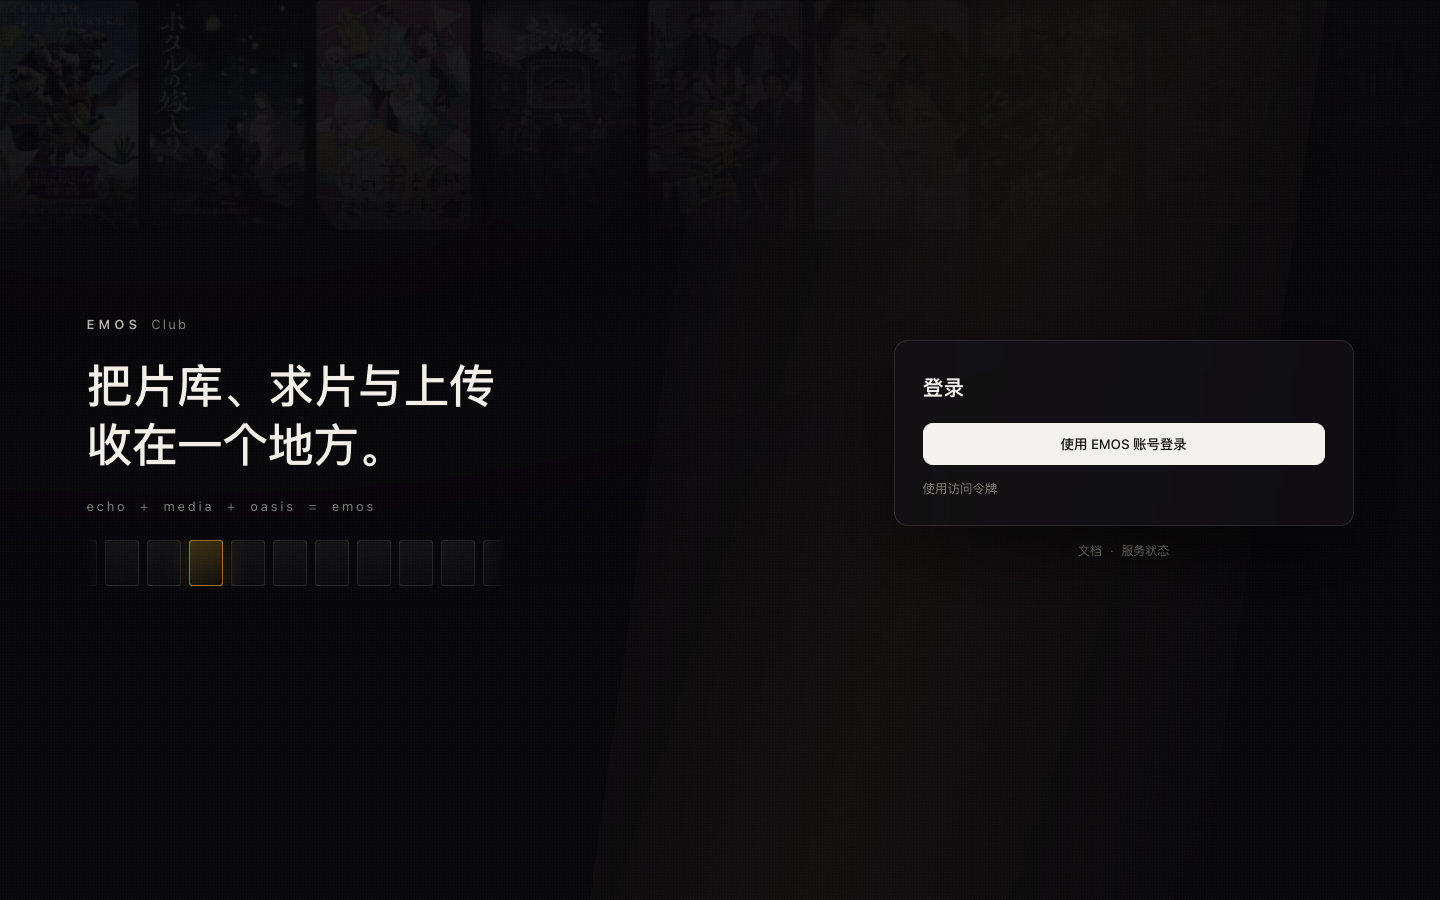
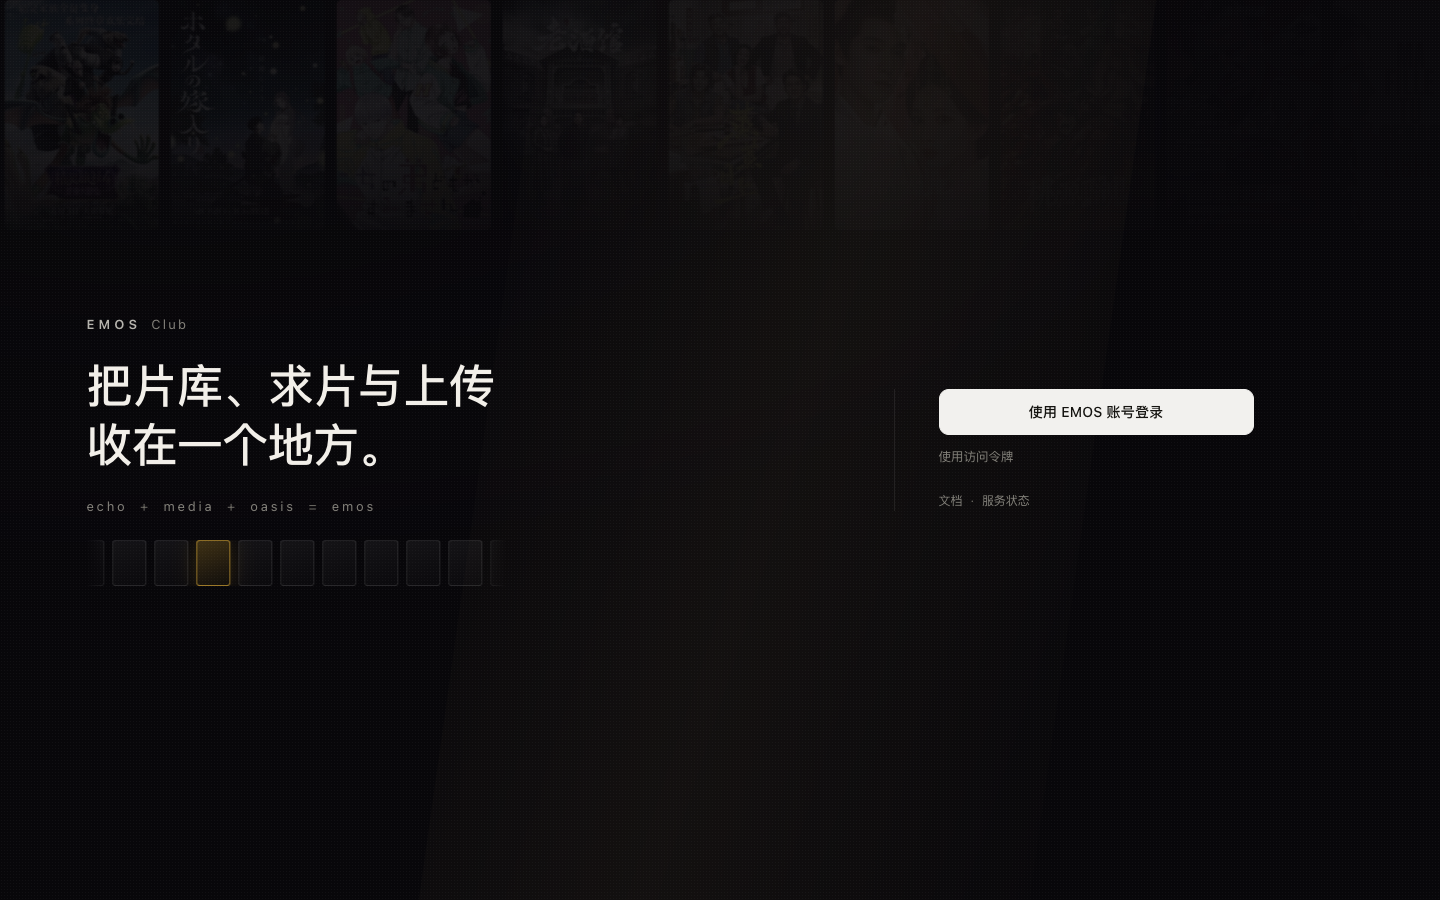
style(login): 右侧去掉矩形卡片，改开放栏
- 去掉边框、底色、模糊与投影：矩形盒子把左侧那块开放的海报墙切成两半
- 改用一条 1px 竖线分隔，右栏左对齐到同一条基线
- 移除「登录」小标题（左侧已建立上下文），右栏只剩按钮、次要入口、两个链接
- 按钮 46px 高、14px 字，与左侧标题的重量更接近

Changed region(s): [[0.625, 0.4044, 0.9375, 0.56], [0.125, 0.5911, 0.1562, 0.6533], [0.7812, 0.5911, 0.8125, 0.6222]]

diff --git a/src/styles/components.css b/src/styles/components.css
@@ -1322,17 +1322,19 @@ th.num .th-sort { flex-direction: row-reverse; }
 .login__line i { font-style: normal; color: var(--fg-5); margin: 0 6px; }
 
 
-.login__panel { display: grid; gap: 16px; justify-items: stretch; }
+.login__panel {
+  display: grid;
+  gap: 26px;
+  justify-items: stretch;
+  max-width: 360px;
+  padding-left: 44px;
+  border-left: 1px solid rgba(255, 255, 255, 0.08);
+  align-self: center;
+}
 
 .login__card {
   display: grid;
   gap: 14px;
-  padding: 30px 28px 26px;
-  border: 1px solid rgba(255, 255, 255, 0.1);
-  border-radius: 14px;
-  background: rgba(18, 17, 20, 0.72);
-  backdrop-filter: blur(18px);
-  box-shadow: 0 24px 70px rgba(0, 0, 0, 0.55);
   animation: page-in var(--t-enter) var(--ease);
 }
 
@@ -1344,8 +1346,11 @@ th.num .th-sort { flex-direction: row-reverse; }
 }
 
 .login__title {
-  margin: 0 0 6px;
-  font-size: 21px;
+  margin: 0 0 2px;
+  font-size: 15px;
+  font-weight: 500;
+  letter-spacing: 0.16em;
+  color: var(--fg-3);
   font-weight: 550;
   letter-spacing: -0.01em;
   color: var(--fg);
@@ -1358,10 +1363,11 @@ th.num .th-sort { flex-direction: row-reverse; }
   color: var(--fg-3);
 }
 
-.login__cta { height: 42px; }
+.login__cta { height: 46px; font-size: 14px; letter-spacing: 0.02em; }
 
 .login__toggle {
   justify-self: start;
+  margin-top: -2px;
   padding: 0;
   border: 0;
   background: transparent;
@@ -1402,7 +1408,8 @@ th.num .th-sort { flex-direction: row-reverse; }
 .login__foot {
   display: flex;
   gap: 8px;
-  justify-content: center;
+  justify-content: flex-start;
+  margin: 0;
   margin: 0;
   font-size: 12px;
   color: var(--fg-5);
@@ -1419,6 +1426,8 @@ th.num .th-sort { flex-direction: row-reverse; }
 }
 
 @media (max-width: 980px) {
+  .login__panel { padding-left: 0; border-left: 0; max-width: none; }
+  .login__foot { padding-left: 0; justify-content: center; }
   .login {
     grid-template-columns: minmax(0, 1fr);
     gap: 34px;

diff --git a/src/views/LoginView.tsx b/src/views/LoginView.tsx
@@ -93,8 +93,6 @@ export function LoginView({ onDone }: { onDone: () => void }) {
 
       <section className="login__panel">
         <div className="login__card">
-          <h2 className="login__title">登录</h2>
-
           <a className="btn btn--primary login__cta" href={authUrl()}>
             使用 EMOS 账号登录
           </a>
